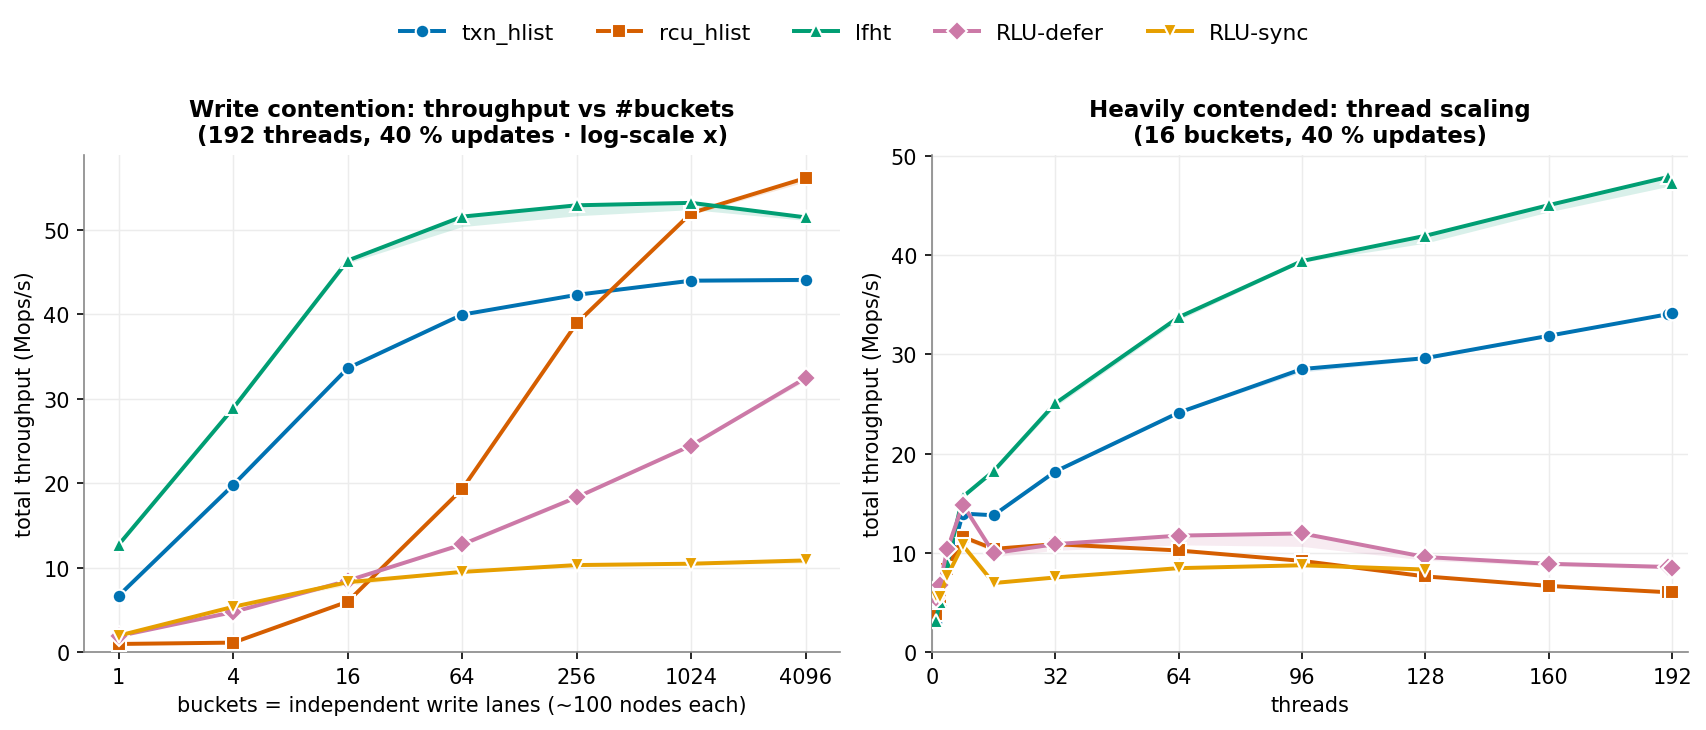
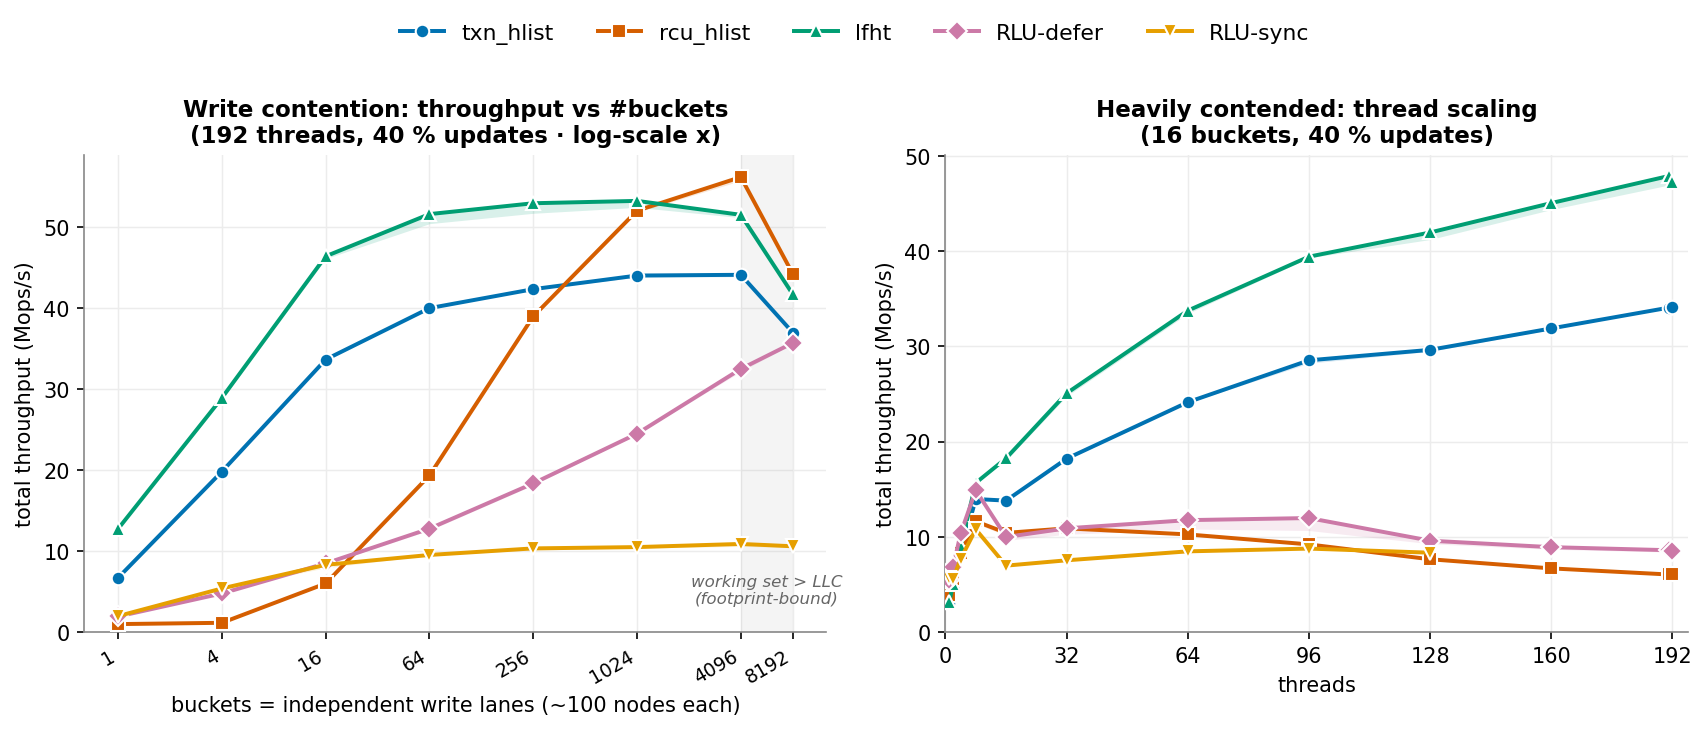
hash_contention: plot the 8192-bucket point with a footprint-bound band
The previous commit swept buckets to 8192 but capped the panel at 4096,
keeping the 8192 row in the CSV only.  Show it: the 4096->8192 downturn
is a real and instructive result, and hiding it looks like the plateau
continues indefinitely when it does not.

To keep the shared ~18 % dip from being misread as a contention effect,
shade the 4096->8192 segment and label it "working set > LLC (footprint-
bound)".  The sweep holds ~100 nodes/bucket constant, so beyond ~4096 the
node set outgrows the LLC and every cache-bound engine sags together
(rcu_hlist 56->44, lfht 51->42, txn_hlist 44->37); only RLU-defer, still
contention- rather than cache-limited, keeps climbing (32->36).

- plot_hash_contention.py: XMAX 4096->8192; shaded FOOTPRINT_X0..XMAX
  band + annotation; 8192 tick; angle the crowded 4-digit tick labels
- README: 8192 column added to the table; prose and caption reworked to
  describe the shaded footprint tail instead of a 4096 cutoff

diff --git a/scripts/plot_hash_contention.py b/scripts/plot_hash_contention.py
@@ -25,12 +25,13 @@ ENGINES = [
 ]
 rows = list(csv.DictReader(open(CSV)))
 
-# The buckets sweep is measured out to 8192, but past ~4096 the fixed ~100
-# nodes/bucket makes the working set outgrow the LLC, so every cache-bound engine
-# sags together (footprint-bound, not contention-bound) -- a different effect than
-# this figure isolates.  Cap the left panel at 4096, the low-contention plateau
-# where rcu_hlist's per-bucket lock has recovered to the lock-free ceiling.
-XMAX = 4096
+# The buckets sweep runs out to 8192.  Past ~4096 the fixed ~100 nodes/bucket
+# makes the working set outgrow the LLC, so every cache-bound engine sags together
+# (footprint-bound, not contention-bound) -- a different effect than the rest of
+# the panel isolates.  That 4096->8192 segment is shaded below so the shared dip
+# is read as a memory-footprint wall, not a contention one.
+XMAX = 8192
+FOOTPRINT_X0 = 4096		# left edge of the footprint-bound (working-set > LLC) band
 
 def series(mode, ekey):
     acc = defaultdict(list)
@@ -44,7 +45,11 @@ plt.rcParams.update({"font.size": 10, "axes.edgecolor": "#888888",
                      "axes.linewidth": 0.8, "figure.facecolor": "white"})
 fig, (axL, axR) = plt.subplots(1, 2, figsize=(11.5, 4.8), dpi=150)
 
-# Left: throughput vs #buckets @192 threads
+# Left: throughput vs #buckets @192 threads.  Shade the footprint-bound tail
+# (working set outgrows the LLC) so its shared downturn is not misread as contention.
+axL.axvspan(FOOTPRINT_X0, XMAX, color="#9a9a9a", alpha=0.10, lw=0, zorder=1)
+axL.text(FOOTPRINT_X0 * 1.42, 3.2, "working set > LLC\n(footprint-bound)",
+         ha="center", va="bottom", fontsize=8.0, color="#666666", style="italic", zorder=3)
 for label, ekey, color, marker in ENGINES:
     xs, best, lo, hi = series("buckets", ekey)
     if not xs:
@@ -52,9 +57,11 @@ for label, ekey, color, marker in ENGINES:
     axL.fill_between(xs, lo, hi, color=color, alpha=0.15, lw=0, zorder=2)
     axL.plot(xs, best, color=color, lw=1.9, marker=marker, ms=6.5,
              markeredgecolor="white", markeredgewidth=1.0, zorder=4, label=label)
-bticks = [1, 4, 16, 64, 256, 1024, 4096]
+bticks = [1, 4, 16, 64, 256, 1024, 4096, 8192]
 axL.set_xscale("log", base=2); axL.xaxis.set_major_locator(FixedLocator(bticks))
-axL.xaxis.set_minor_locator(NullLocator()); axL.set_xticklabels([str(b) for b in bticks])
+axL.xaxis.set_minor_locator(NullLocator())
+# 4096 and 8192 sit one octave apart and their 4-digit labels collide; angle them.
+axL.set_xticklabels([str(b) for b in bticks], rotation=30, ha="right", fontsize=9)
 axL.set_xlabel("buckets = independent write lanes (~100 nodes each)", fontsize=10)
 axL.set_ylabel("total throughput (Mops/s)", fontsize=10)
 axL.set_title("Write contention: throughput vs #buckets\n(192 threads, 40 % updates · log-scale x)",

diff --git a/README.md b/README.md
@@ -1369,29 +1369,31 @@ of independent write lanes — at 40 % updates. Fewer lanes → more writers per
 
 ![Write contention: as buckets shrink, RCU+lock collapses (its per-bucket lock becomes a
 global lock) while txn and cds_lfht degrade gracefully; once buckets outnumber the 192
-writers all three converge at the lock-free ceiling; at 16 buckets only txn and lfht keep
-scaling to 192](figures/hash_contention.png)
+writers all three converge at the lock-free ceiling, then dip together in the shaded
+footprint-bound tail (working set > LLC); at 16 buckets only txn and lfht keep scaling to
+192](figures/hash_contention.png)
 
 **Throughput vs #buckets at 192 threads** (total Mops/s, 40 % updates):
 
-| buckets      |   1 |   4 |  16 |  64 | 256 | 1024 | 4096 |
-|--------------|----:|----:|----:|----:|----:|-----:|-----:|
-| `lfht`       |  13 |  29 |  46 |  52 |  53 |   53 |   51 |
-| `txn_hlist`  | 6.7 |  20 |  34 |  40 |  42 |   44 |   44 |
-| `rcu_hlist`  | 1.0 | 1.1 | 6.0 |  19 |  39 |   52 |   56 |
-| RLU-defer    | 1.9 | 4.7 | 8.4 |  13 |  18 |   24 |   32 |
-| RLU-sync     | 1.9 | 5.4 | 8.3 | 9.5 |  10 |   11 |   11 |
+| buckets      |   1 |   4 |  16 |  64 | 256 | 1024 | 4096 | 8192 |
+|--------------|----:|----:|----:|----:|----:|-----:|-----:|-----:|
+| `lfht`       |  13 |  29 |  46 |  52 |  53 |   53 |   51 |   42 |
+| `txn_hlist`  | 6.7 |  20 |  34 |  40 |  42 |   44 |   44 |   37 |
+| `rcu_hlist`  | 1.0 | 1.1 | 6.0 |  19 |  39 |   52 |   56 |   44 |
+| RLU-defer    | 1.9 | 4.7 | 8.4 |  13 |  18 |   24 |   32 |   36 |
+| RLU-sync     | 1.9 | 5.4 | 8.3 | 9.5 |  10 |   11 |   11 |   11 |
 
 At the article's **1024 buckets** (low contention) `rcu_hlist` ties `lfht` at the top
 (52–53) — the article's result — and by **4096** it has fully caught the lock-free ceiling
 band (56 vs `lfht` 51, `txn_hlist` 44): once the lanes outnumber the 192 writers the
 per-bucket lock is essentially uncontended and costs no more than a lock-free CAS, so all
 three plateau together. (`rcu_hlist` even nudges *ahead* there — its 3-word node has a
-smaller cache footprint than `lfht`'s split-order node, so it hits the memory wall last. The
-plot stops at 4096 because past that point the fixed ~100 nodes/bucket pushes the working
-set out of the LLC and every cache-bound engine sags in lockstep — footprint-, not
-contention-bound: at 8192 all three drop ~18 % together, to 44 / 42 / 37.) But as the bucket
-count *shrinks*, **`rcu_hlist` collapses**: its per-bucket lock becomes a *global* lock, and throughput falls from 52 to
+smaller cache footprint than `lfht`'s split-order node, so it hits the memory wall last. Past
+4096 the fixed ~100 nodes/bucket pushes the working set out of the LLC, so every cache-bound
+engine sags in lockstep — the **shaded 4096→8192 band**, footprint- not contention-bound: at
+8192 all three drop ~18 % together, to 44 / 42 / 37. Only RLU-defer, still contention-limited
+rather than cache-bound, keeps climbing there.) But as the bucket count *shrinks*,
+**`rcu_hlist` collapses**: its per-bucket lock becomes a *global* lock, and throughput falls from 52 to
 **1.0** at a single bucket — best to worst, a ~52× drop. `txn_hlist` and `lfht` degrade
 **gracefully** (44 → 6.7 and 53 → 13), staying on top under contention; txn overtakes rcu
 below ~500 buckets (it already leads by 256). RLU sits low-to-mid throughout — even at 1024 buckets its global
